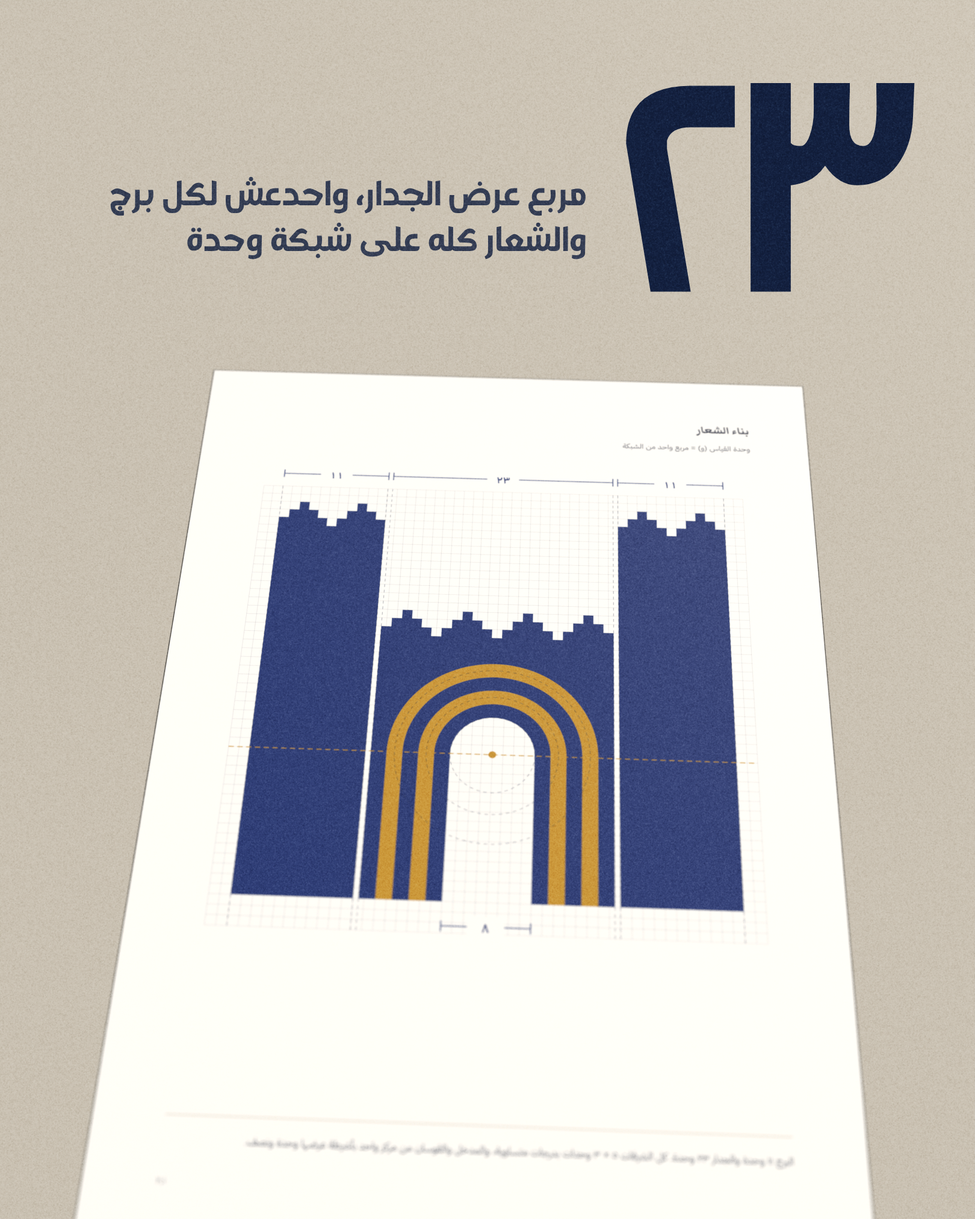
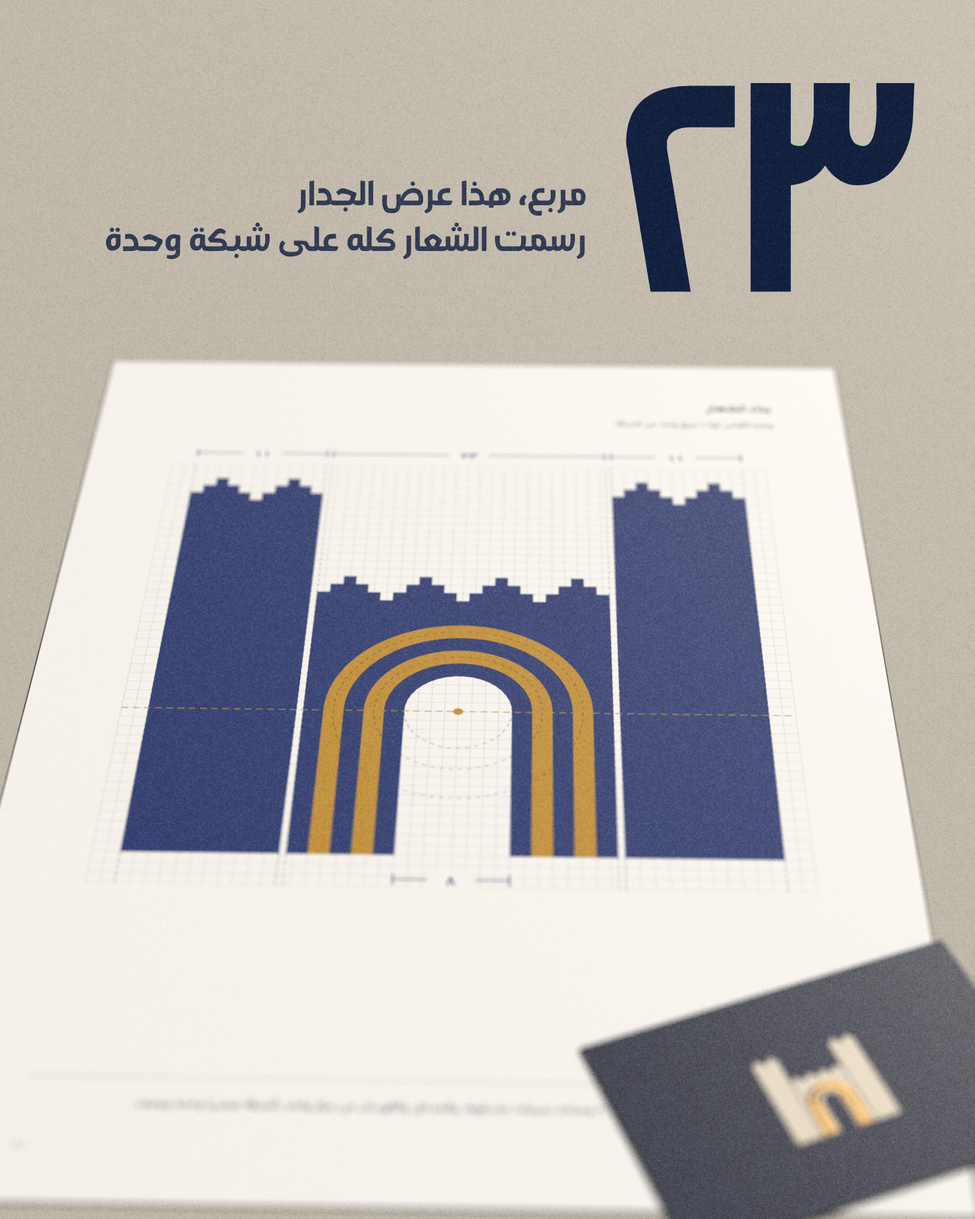
Identity carousel: slide 3 with a lower camera, the foil card in front, and a plainer line

diff --git a/marketing/ig-ministry-identity/carousel.html b/marketing/ig-ministry-identity/carousel.html
@@ -30,7 +30,7 @@ const S = [
   // [image, text html, position css, colour class, background position]; each slide set its own way
   [r('sign'), `<h1>بوابة عشتار<br>بوابة العراق الرقمية</h1><p>مقترح هوية بصرية قدمته لمسابقة<br>وزارة الاقتصاد الرقمي والحوكمة</p>`, 'right:84px;bottom:150px', 'ink'],
   [r('foil'), `<h2>البوابة صارت شعار</h2><p>البرجين والجدار من بوابة عشتار، والقوسين<br>الذهبيين حول المدخل موجات اتصال</p>`, 'left:76px;bottom:104px;text-align:left', 'ink'],
-  [r('grid'), `<div class="num">٢٣</div><p class="beside">مربع عرض الجدار، واحدعش لكل برج<br>والشعار كله على شبكة وحدة</p>`, 'right:70px;top:40px', 'ink'],
+  [r('grid'), `<div class="num">٢٣</div><p class="beside">مربع، هذا عرض الجدار<br>رسمت الشعار كله على شبكة وحدة</p>`, 'right:70px;top:40px', 'ink'],
   [r('swatches'), `<h2>أربع ألوان</h2><p>الأزرق من طابوق البوابة المزجج<br>والذهبي للقوسين والإبراز بس</p>`, 'right:80px;top:90px', 'ink'],
   [r('letterhead'), `<p class="word">الكتب الرسمية</p>`, 'left:70px;bottom:70px', 'ink'],
   [r('stationery'), ``, '', ''],

diff --git a/marketing/ig-ministry-identity/shots.py b/marketing/ig-ministry-identity/shots.py
@@ -116,9 +116,10 @@ def foil(preview):
 def grid(preview):
     s = scene(preview)
     st.surface(STONE)
-    st.sheet("grid-sheet", 21.0, 29.7, -1.0, -1.0, -4)
-    st.lights(elev=30, azim=150, soft=2.5, power=4.4)
-    cam((-2, -26, 46), (-1, 4.0, 0), 50, 5.6)            # the sheet low in the frame, stone above it for the words
+    st.sheet("grid-sheet", 21.0, 29.7, -1.0, -3.0, -6)
+    foil_card(5.5, -15.5, 16, z=0.012)                    # the foil card on the sheet's corner, a real gold object in front
+    st.lights(elev=24, azim=150, soft=2.0, power=4.4)
+    cam((-4, -46, 38), (0.0, 0.5, 0), 70, 5.0, focus=(-1.0, -2.0, 0))   # lower angle; the drawing sharp, the card falling soft
     return s
 
 
